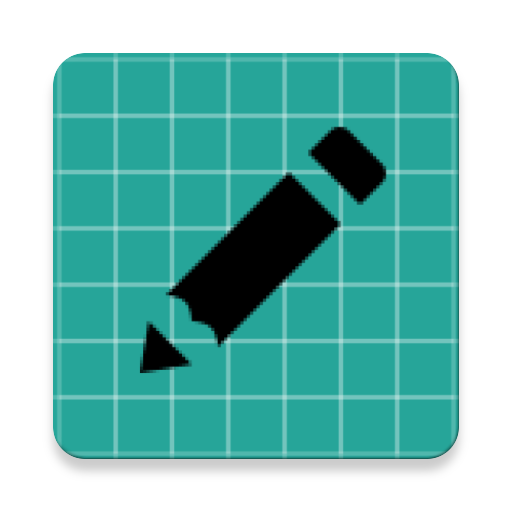
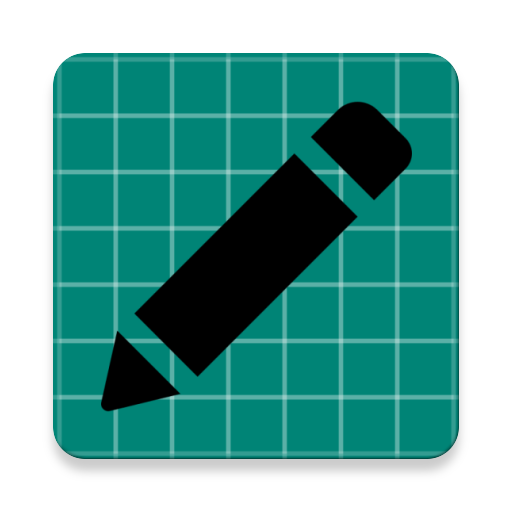
Edit button added, switches to add button

diff --git a/mobile/src/main/java/com/example/shane_kruse/habbithub/MainActivity.java b/mobile/src/main/java/com/example/shane_kruse/habbithub/MainActivity.java
@@ -43,6 +43,7 @@ public class MainActivity extends AppCompatActivity {
     private Handler myHandler; // was protected
     private int total;
     private float sum;
+    private int flag = 0;
     private DonutProgress progressBarOverall;
     private ImageView addTask;
     private ImageView menuOptions;
@@ -65,21 +66,25 @@ public class MainActivity extends AppCompatActivity {
         */
 
 
-        addTask = findViewById(R.id.add_task);
+        addTask = findViewById(R.id.edit_add_task);
         addTask.setOnClickListener(new View.OnClickListener() {
             @Override
             public void onClick(View view) {
-                Intent editScreen = new Intent(MainActivity.this, EditActivity.class);
-                startActivityForResult(editScreen, 101);
-            }
-        });
+                // Add image
+                if (flag == 0) {
+                    addTask.setImageResource(R.mipmap.ic_launcher_foreground_plus_icon);
+                    System.out.println(R.mipmap.ic_launcher_foreground_plus_icon);
+                    int resID = getResources().getIdentifier("ic_launcher_foreground_plus_icon", "mipmap", getPackageName());
+                    System.out.println(resID);
+                    flag = 1;
+                } else { // edit image
+                    addTask.setImageResource(R.mipmap.ic_launcher_foreground_edit_task);
+                    flag = 0;
+                }
 
-        addTask.setOnLongClickListener(new View.OnLongClickListener() {
-            @Override
-            public boolean onLongClick(View view) {
-                Intent editScreen = new Intent(MainActivity.this, EditActivity.class);
-                startActivityForResult(editScreen, 101);
-                return true;
+
+                //Intent editScreen = new Intent(MainActivity.this, EditActivity.class);
+                //startActivityForResult(editScreen, 101);
             }
         });
 
